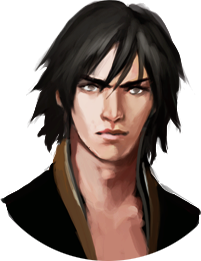
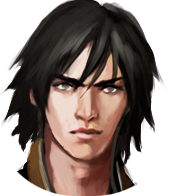
++
角色头像调整，对白调整时间间隔，Kill指令不受视野限制

diff --git a/Assets/AutoMsgCtrl.cs b/Assets/AutoMsgCtrl.cs
@@ -28,6 +28,7 @@ public class AutoMsgCtrl : MonoBehaviour {
         for (int i = 0; i < transform.childCount; i++)
             GameObject.Destroy(transform.GetChild(i).gameObject);
         tick = lastTime + alphaTime;
+        StartCoroutine(SortMessage());
     }
 
     void Start() {
@@ -66,22 +67,60 @@ public class AutoMsgCtrl : MonoBehaviour {
 
     float tick;
     bool crossFade;
-    
+
+    float lastTick;
+    List<string> msg = new List<string>();
     public void PushMessage(string text)
     {
-        GameObject obj = new GameObject();
-        obj.name = (transform.childCount + 1).ToString();
-        Text txt = obj.AddComponent<Text>();
-        txt.text = text;
-        //00AAFFFF
-        txt.font = Startup.ins.TextFont;
-        txt.fontSize = 32;
-        txt.alignment = TextAnchor.MiddleLeft;
-        txt.raycastTarget = false;
-        txt.color = new Color(1.0f, 1.0f, 1.0f, 1f);
-        obj.transform.SetParent(transform);
-        obj.transform.localScale = Vector3.one;
-        obj.transform.localPosition = Vector3.zero;
-        obj.transform.localRotation = Quaternion.identity;
+        if (Time.timeSinceLevelLoad - lastTick <= 1f || msg.Count != 0)
+        {
+            msg.Add(text);
+        }
+        else
+        {
+            GameObject obj = new GameObject();
+            obj.name = (transform.childCount + 1).ToString();
+            Text txt = obj.AddComponent<Text>();
+            txt.text = text;
+            //00AAFFFF
+            txt.font = Startup.ins.TextFont;
+            txt.fontSize = 32;
+            txt.alignment = TextAnchor.MiddleLeft;
+            txt.raycastTarget = false;
+            txt.color = new Color(1.0f, 1.0f, 1.0f, 1f);
+            obj.transform.SetParent(transform);
+            obj.transform.localScale = Vector3.one;
+            obj.transform.localPosition = Vector3.zero;
+            obj.transform.localRotation = Quaternion.identity;
+            lastTick = Time.timeSinceLevelLoad;
+        }
+    }
+
+    IEnumerator SortMessage()
+    {
+        while (true)
+        {
+            if (Time.timeSinceLevelLoad - lastTick > 1f && msg.Count != 0)
+            {
+                GameObject obj = new GameObject();
+                obj.name = (transform.childCount + 1).ToString();
+                Text txt = obj.AddComponent<Text>();
+                txt.text = msg[0];
+                //00AAFFFF
+                txt.font = Startup.ins.TextFont;
+                txt.fontSize = 32;
+                txt.alignment = TextAnchor.MiddleLeft;
+                txt.raycastTarget = false;
+                txt.color = new Color(1.0f, 1.0f, 1.0f, 1f);
+                obj.transform.SetParent(transform);
+                obj.transform.localScale = Vector3.one;
+                obj.transform.localPosition = Vector3.zero;
+                obj.transform.localRotation = Quaternion.identity;
+                lastTick = Time.timeSinceLevelLoad;
+                msg.RemoveAt(0);
+            }
+            yield return 0;
+        }
+        
     }
 }

diff --git a/Assets/Meteor/LevelScript/LevelScriptBase.cs b/Assets/Meteor/LevelScript/LevelScriptBase.cs
@@ -5832,7 +5832,8 @@ public class LevelScript_sn14 : LevelScriptBase
             }
         }
 
-
+        //当大刀哨兵发现主角，停止铁枪和大刀兵之前的行为，进行默认看到敌方时的处理-追击敌方/（丢失视野后会停止追击） 
+        //Kill指令无视视野-无论多远都可以看到要追杀的目标
         if (trg1 == 0)
         {
             c = GetChar("大刀哨兵");
